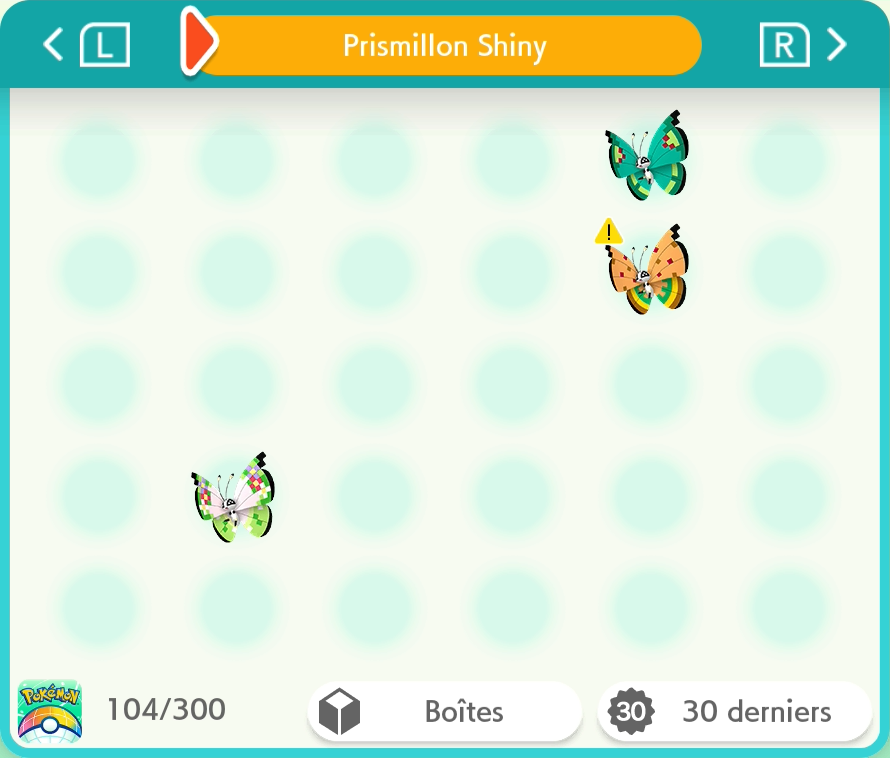
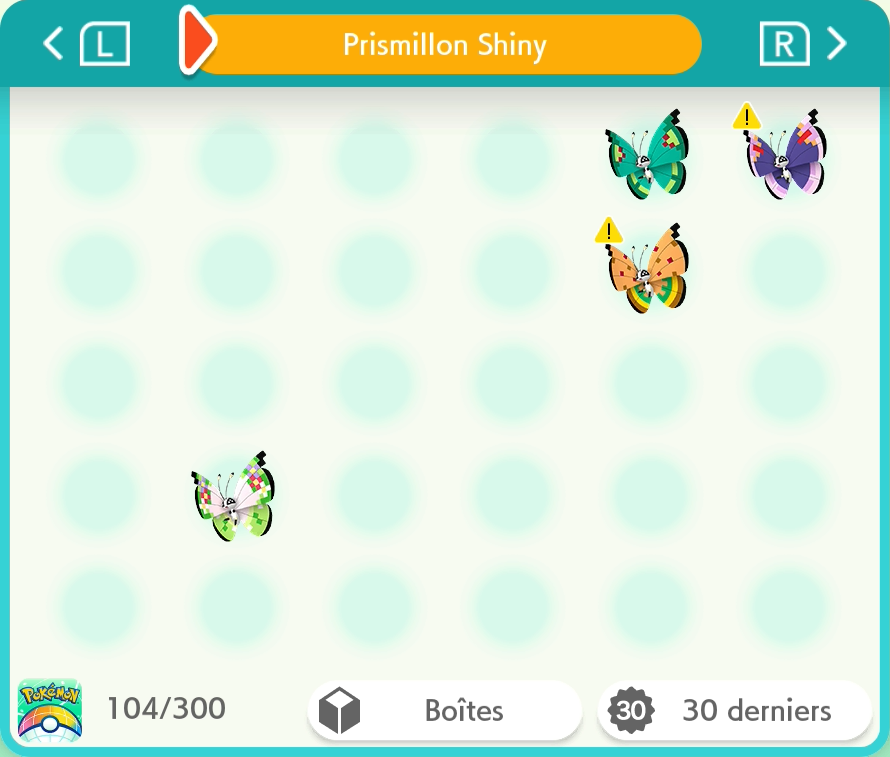
Prismillon : Motif Monarchie

diff --git a/README.md b/README.md
@@ -2,7 +2,7 @@
 
 Pokémon-Elément-Sh -> <a href="https://www.pokemon-element-sh.fr/profil/karyno21" target="_blank">Karyno21</a>
 
-↓ Dernière Update le 09/10/2026 à 23h59 ↓
+↓ Dernière Update le 10/10/2026 à 1h54 ↓
 ### Dex 1-9G [292/1001] +31
 
 | Gen | Prog | Notes |
@@ -31,7 +31,7 @@ Pokémon-Elément-Sh -> <a href="https://www.pokemon-element-sh.fr/profil/karyno
 <details>
   <summary>Bonus - Motif de Prismillon</summary>
 
-### Motif de Prismillon [3/19] +3
+### Motif de Prismillon [4/19] +4
 
 | Motif | Prog |
 |---|:--:|
@@ -41,13 +41,13 @@ Pokémon-Elément-Sh -> <a href="https://www.pokemon-element-sh.fr/profil/karyno
 |Motif Continent||
 |Motif Cyclone||
 |Motif Delta||
-|Motif Fantaisie (événementiel / forme de base dans Écarlate et Violet)|Obtenu|
+|Motif Fantaisie (événementiel / motif de base dans Écarlate et Violet)|Obtenu|
 |Motif Floraison (motif de base de nombreuses régions, dont la France)||
 |Motif Glace||
 |Motif Jungle||
 |Motif Mangrove||
 |Motif Métropole||
-|Motif Monarchie||
+|Motif Monarchie|Obtenu|
 |Motif Poké Ball (événementiel / Shiny Lock)|❌|
 |Motif Rivage||
 |Motif Sable||
